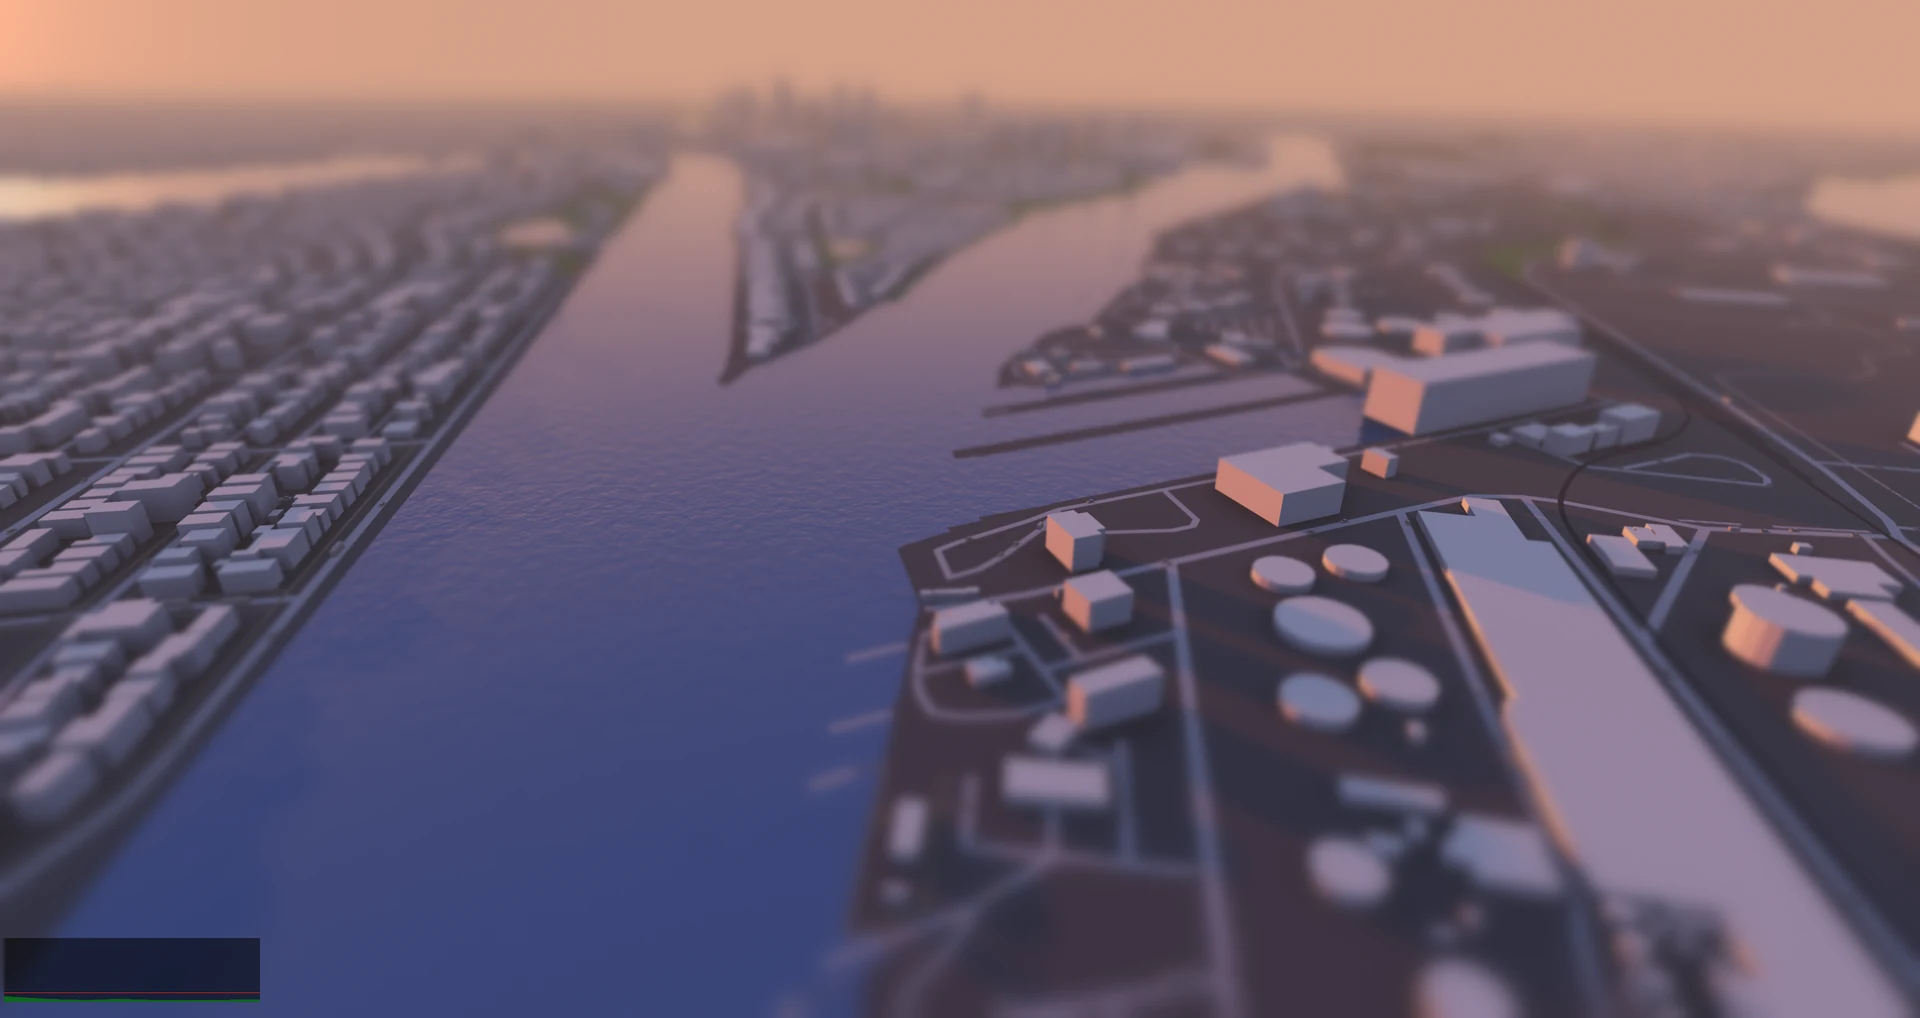
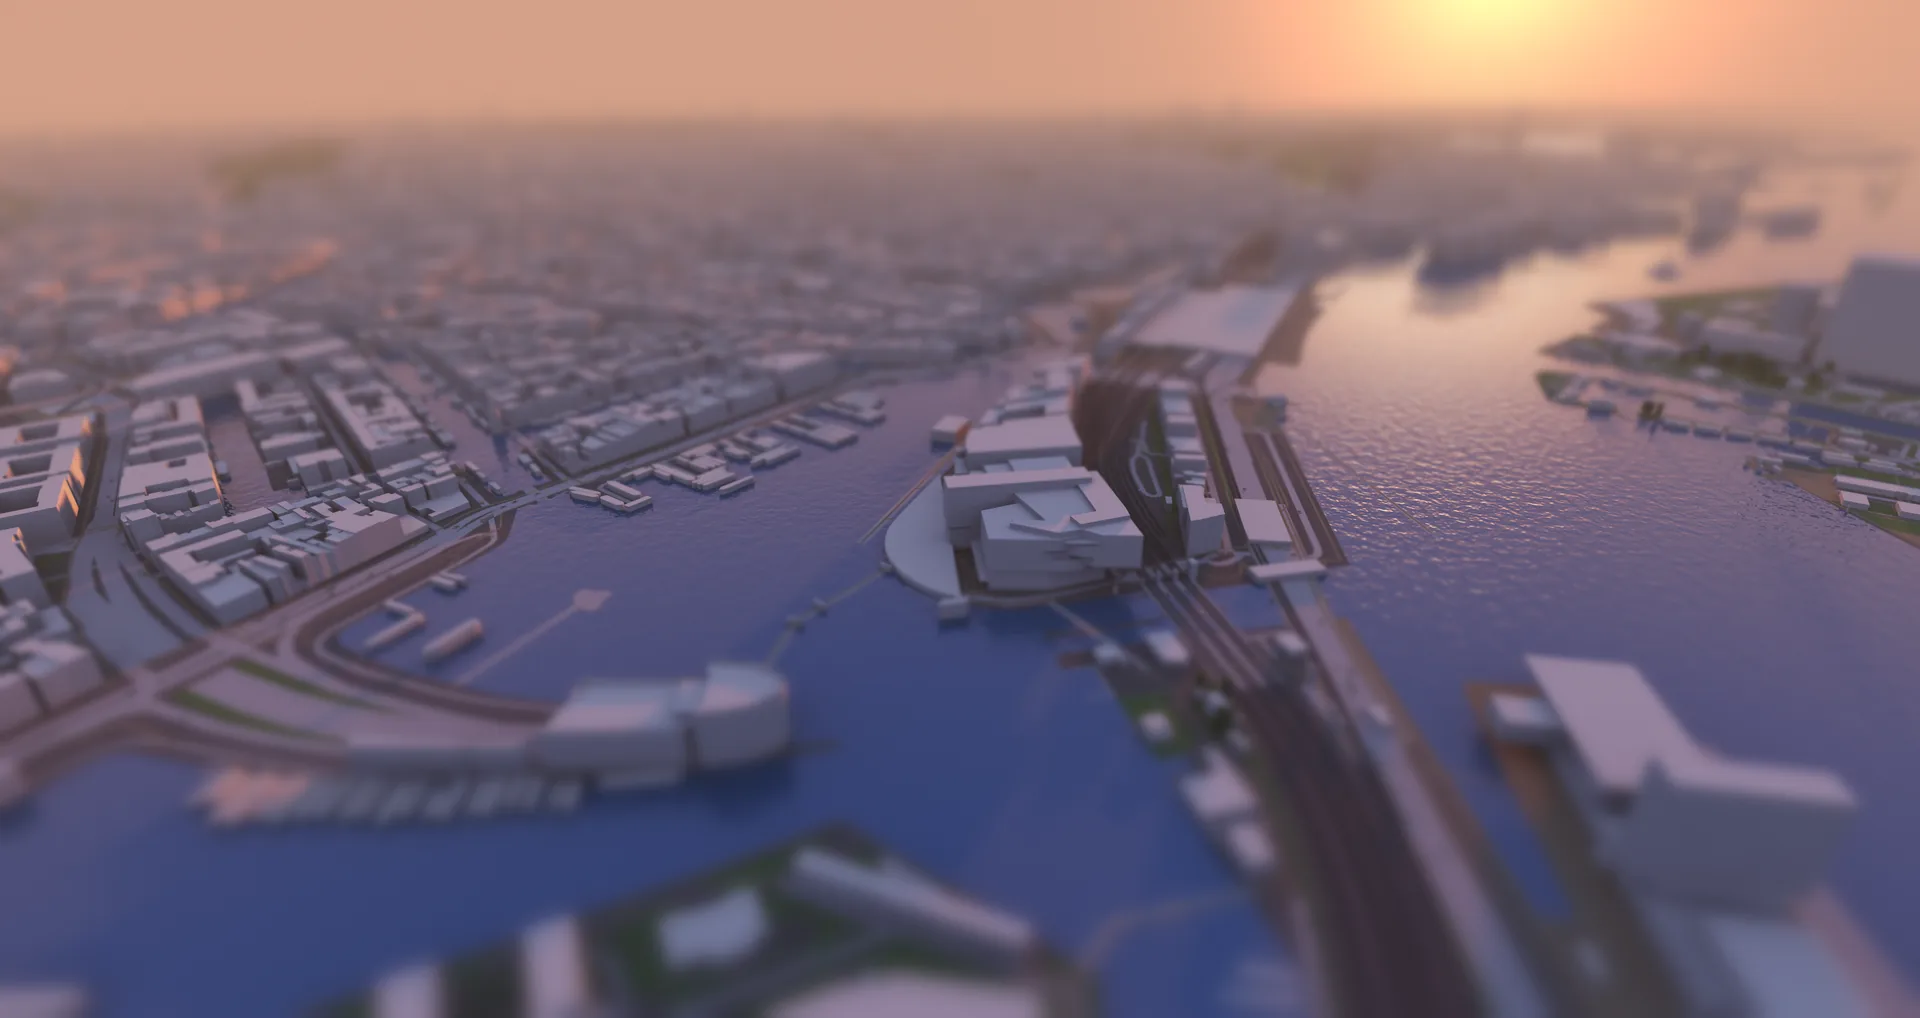
Readme text, image

diff --git a/README.md b/README.md
@@ -13,7 +13,7 @@ The geometry is streamed as vector tiles while the camera moves, so nothing is b
 
 [![Central Park at sunset, trees casting shadows](docs/images/park.webp)](docs/images/park.webp)
 
-[![A harbor at sunset, long penumbras, the ray count graph in the bottom left](docs/images/sunset.webp)](docs/images/sunset.webp)
+[![A waterfront city at sunset with tilt-shift depth of field](docs/images/sunset.webp)](docs/images/sunset.webp)
 
 The frame
 ---------
@@ -30,7 +30,7 @@ Charts
 A lightmap needs a 2D parametrization of the surfaces. It is made per map tile in the worker that builds the geometry (`cityLayout.ts`), and a point on it is a 32 bit surface id plus a 2D position in world units:
 
 - The ground is 1 chart for the whole map: world xz.
-- The roofs are world xz too, 1 chart per roof height in steps of 25 cm. With the ground and the roofs in 1 chart, a texel on the outline of a roof averages the open roof and the occluded ground at the foot of its walls.
+- The roofs are world xz too, but not in the chart of the ground: 1 chart per roof height, in steps of 25 cm. The chart id is part of the tile hash, so a roof and the ground under it get different tiles and never share a texel. Roofs of the same height that touch do share theirs. (In 1 chart with the ground, a texel on the outline of a roof would average the open roof and the occluded ground at the foot of its walls.)
 - The walls of a map tile are unrolled into strips, 1 per footprint ring: u along the ring, v the height above the base. The strips are cut at corners into chunks of at most 64 m and packed in rows into an atlas per map tile, in Morton order of their buildings, so a coarse texel that spans 2 chunks mixes walls that are near each other in the world.
 
 Ground and roof pixels get their chart position from the depth. Wall pixels read it from the gBuffer, 19 bits per axis in steps of 1 cm. The atlas is as large as it needs to be: only the parts that pixels use take room in the lightmap.
@@ -43,7 +43,7 @@ The virtual lightmap
 - **Eviction.** A tile is stamped with the frame it was last used in. When the probe sequence of a new tile has no empty slot, it takes the place of the tile that is unused the longest, if that is more than `evictFrames` (30, down to 2 while the camera travels). When nothing can be evicted, the cell uses the texel of a coarser level.
 - **Texels.** 1 `u32` per texel, holding ray counts: sky rays that reached the sky (9 bits), sky rays (9 bits), sun rays that reached the sun (7 bits), sun rays (7 bits). The visibility is hits / rays. The cap is 508 sky paths and 127 sun rays per texel. All writes are a compare exchange on that 1 word, so the sky and the sun of a batch go in together and a field can not overflow into the next.
 
-A lightmap of 4096 x 4096 texels (high quality) is 262144 tiles and 64 MB, plus the same again for the claims.
+A lightmap of 4096 x 4096 texels (high quality) is 262144 tiles. Its lighting buffer is 64 MB, at 4 bytes per texel. The update needs a second buffer of the same size: 1 word per texel for the bids of the cells (see claim below), which also records the frame the texel was last sampled in. So 128 MB in all.
 
 The update
 ----------
